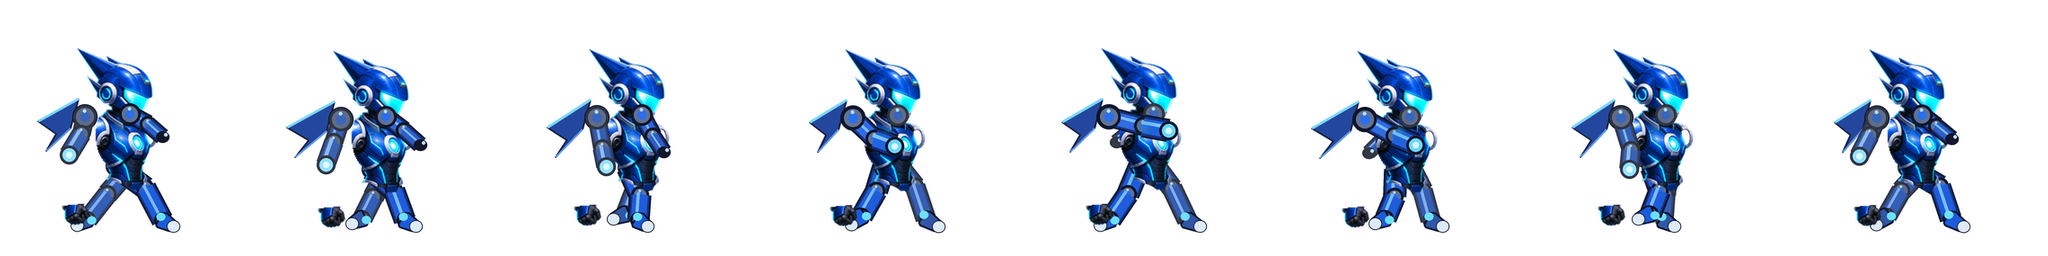
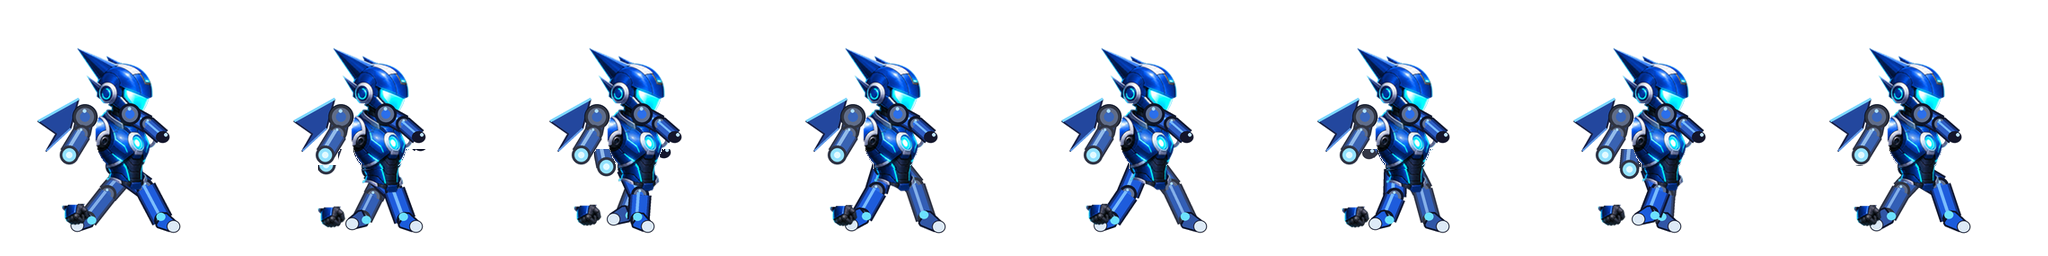
[codex] char: player_run upper body lock

diff --git a/index.html b/index.html
@@ -167,7 +167,7 @@ function manageBgm(){            // 毎フレーム呼ぶ（状態に応じてBG
 // 各エンティティ＝{fw,fh,scale,ax,ay, anims:{name:{src,frames,fps}}}。
 // anim毎に1枚の横ストリップPNG（コマを横一列）。素材配置後にここを記述する。
 // ★キャッシュ無効化: 素材PNGを差し替えたら ASSET_VER を変えると、ブラウザ/CDNが必ず新素材を取得する。
-const ASSET_VER = '2026053108';
+const ASSET_VER = '2026060101';
 function _av(s){ return s + (s.indexOf('?')<0 ? '?v=' : '&v=') + ASSET_VER; }
 const ASSETS = {
   // 高精細2D(塗り)。scale/ayは見た目に合わせて調整。未生成のanimはidleへ自動フォールバック。
